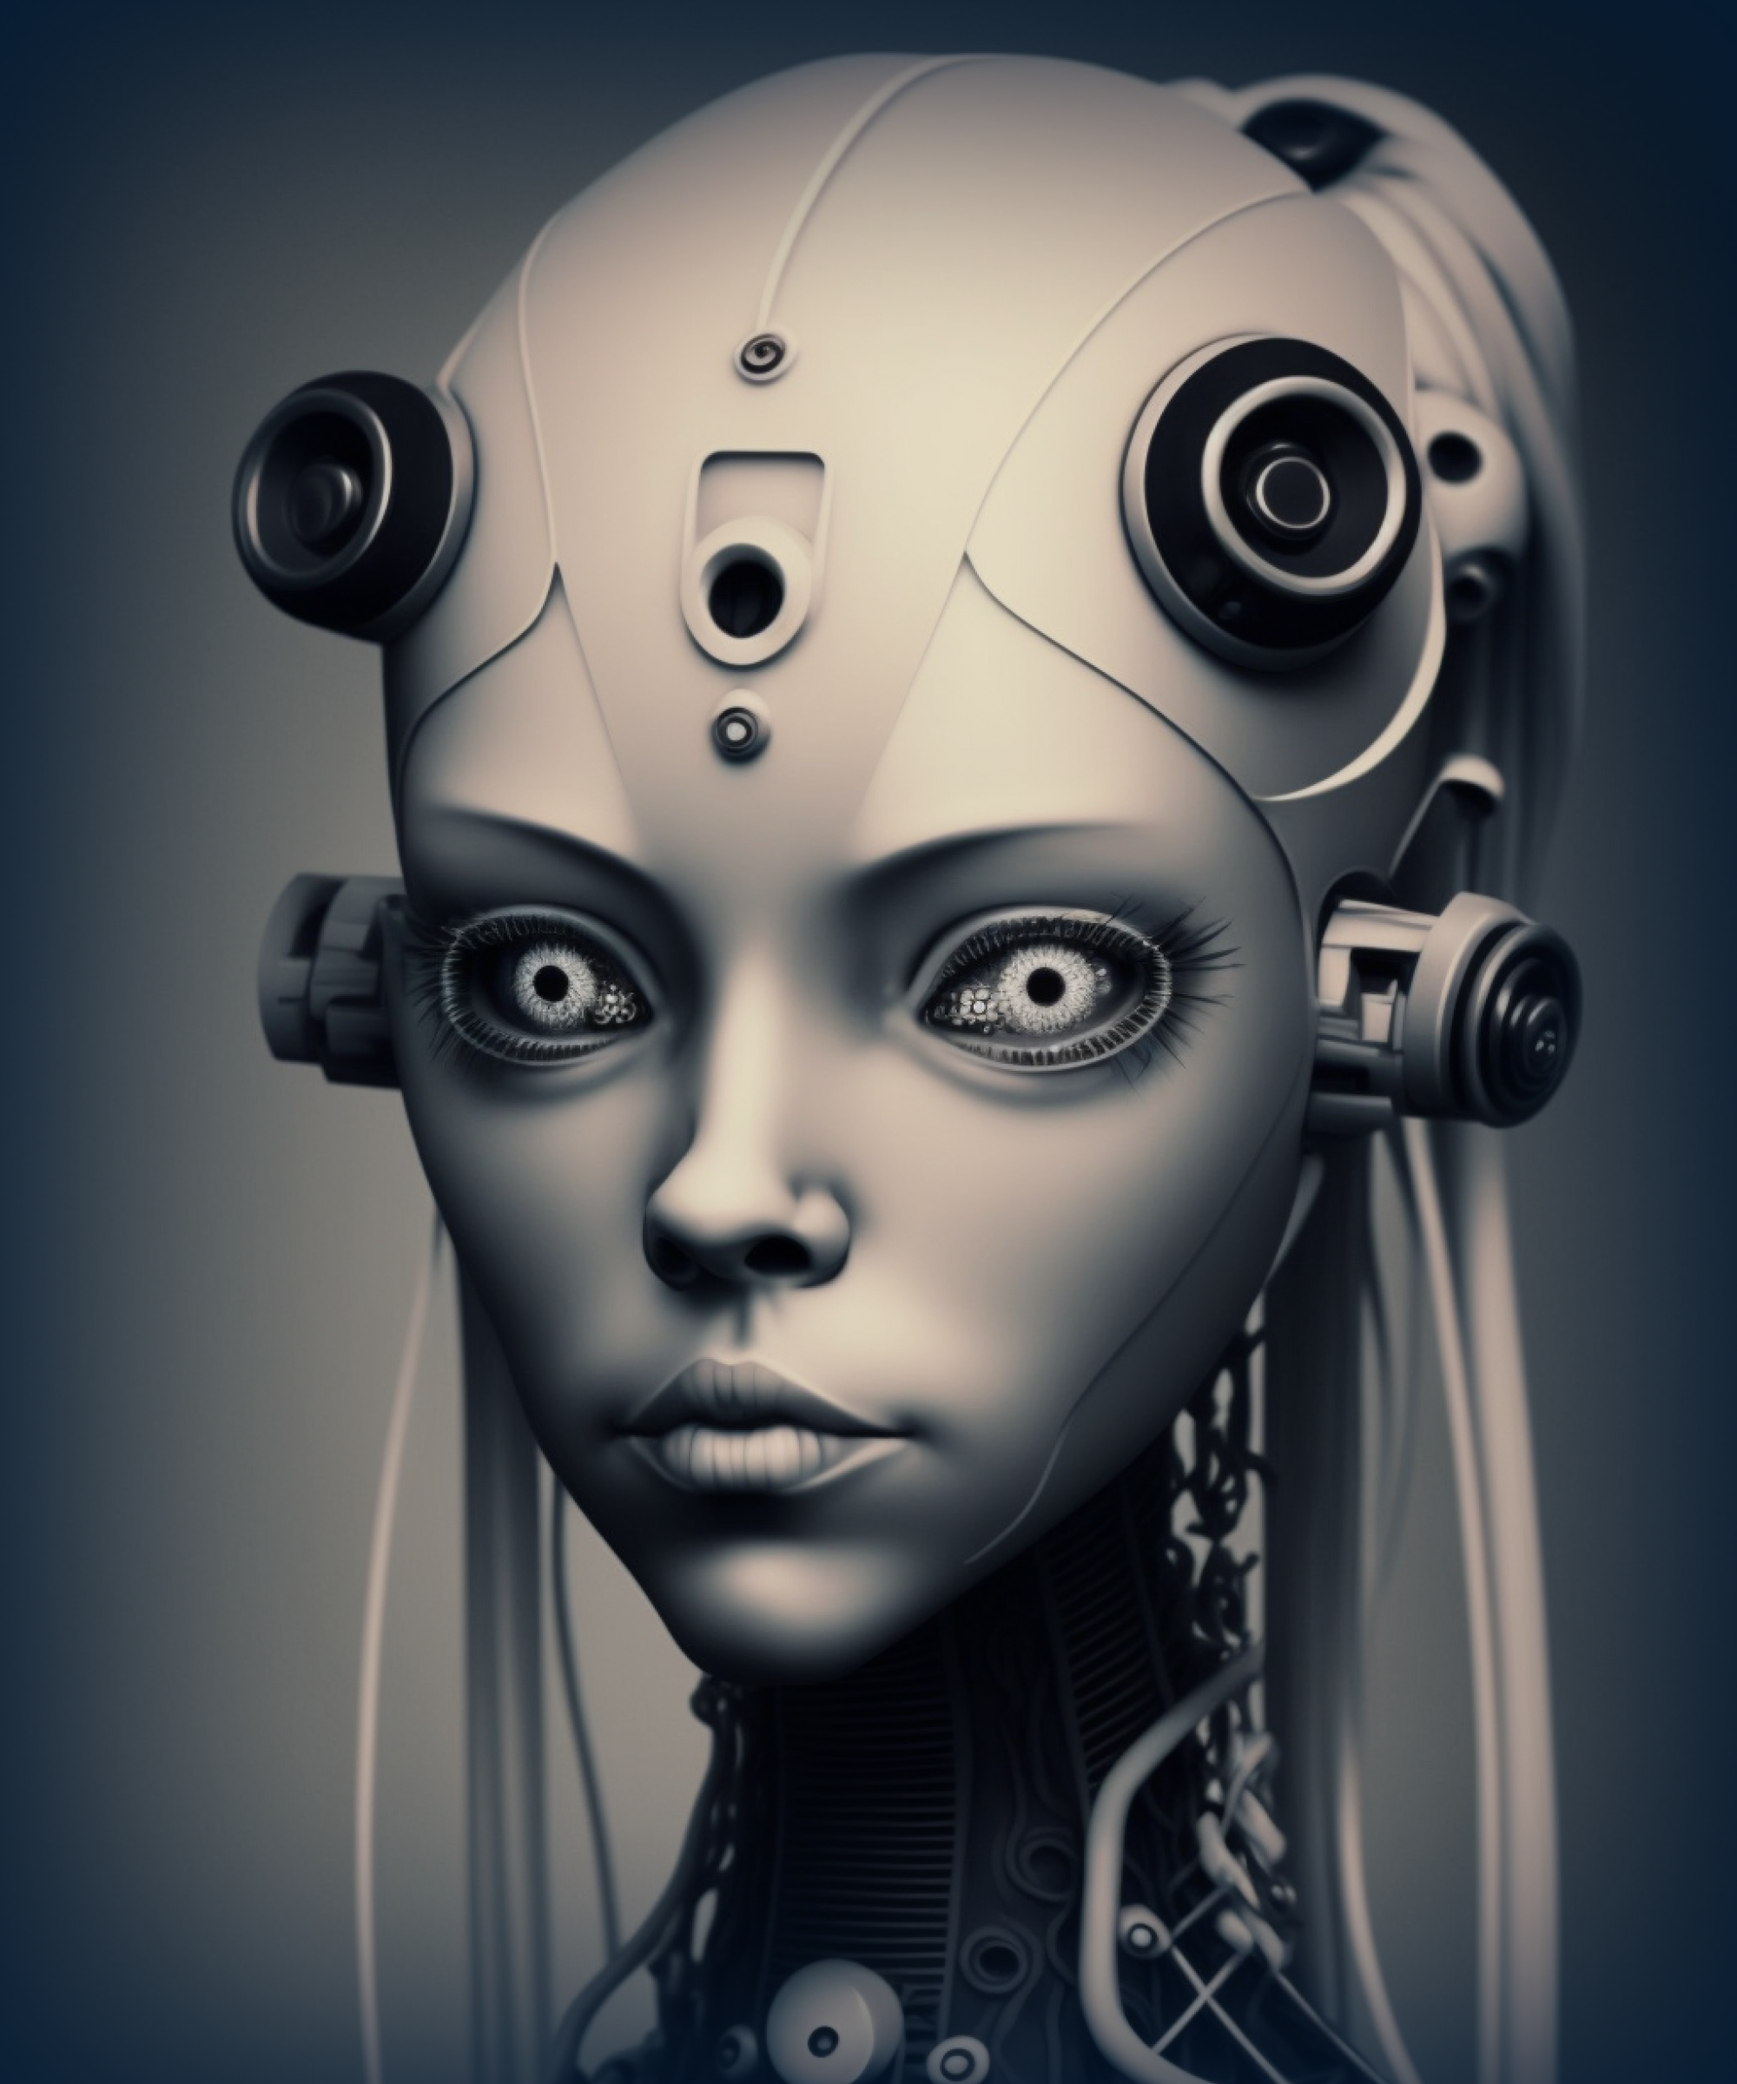
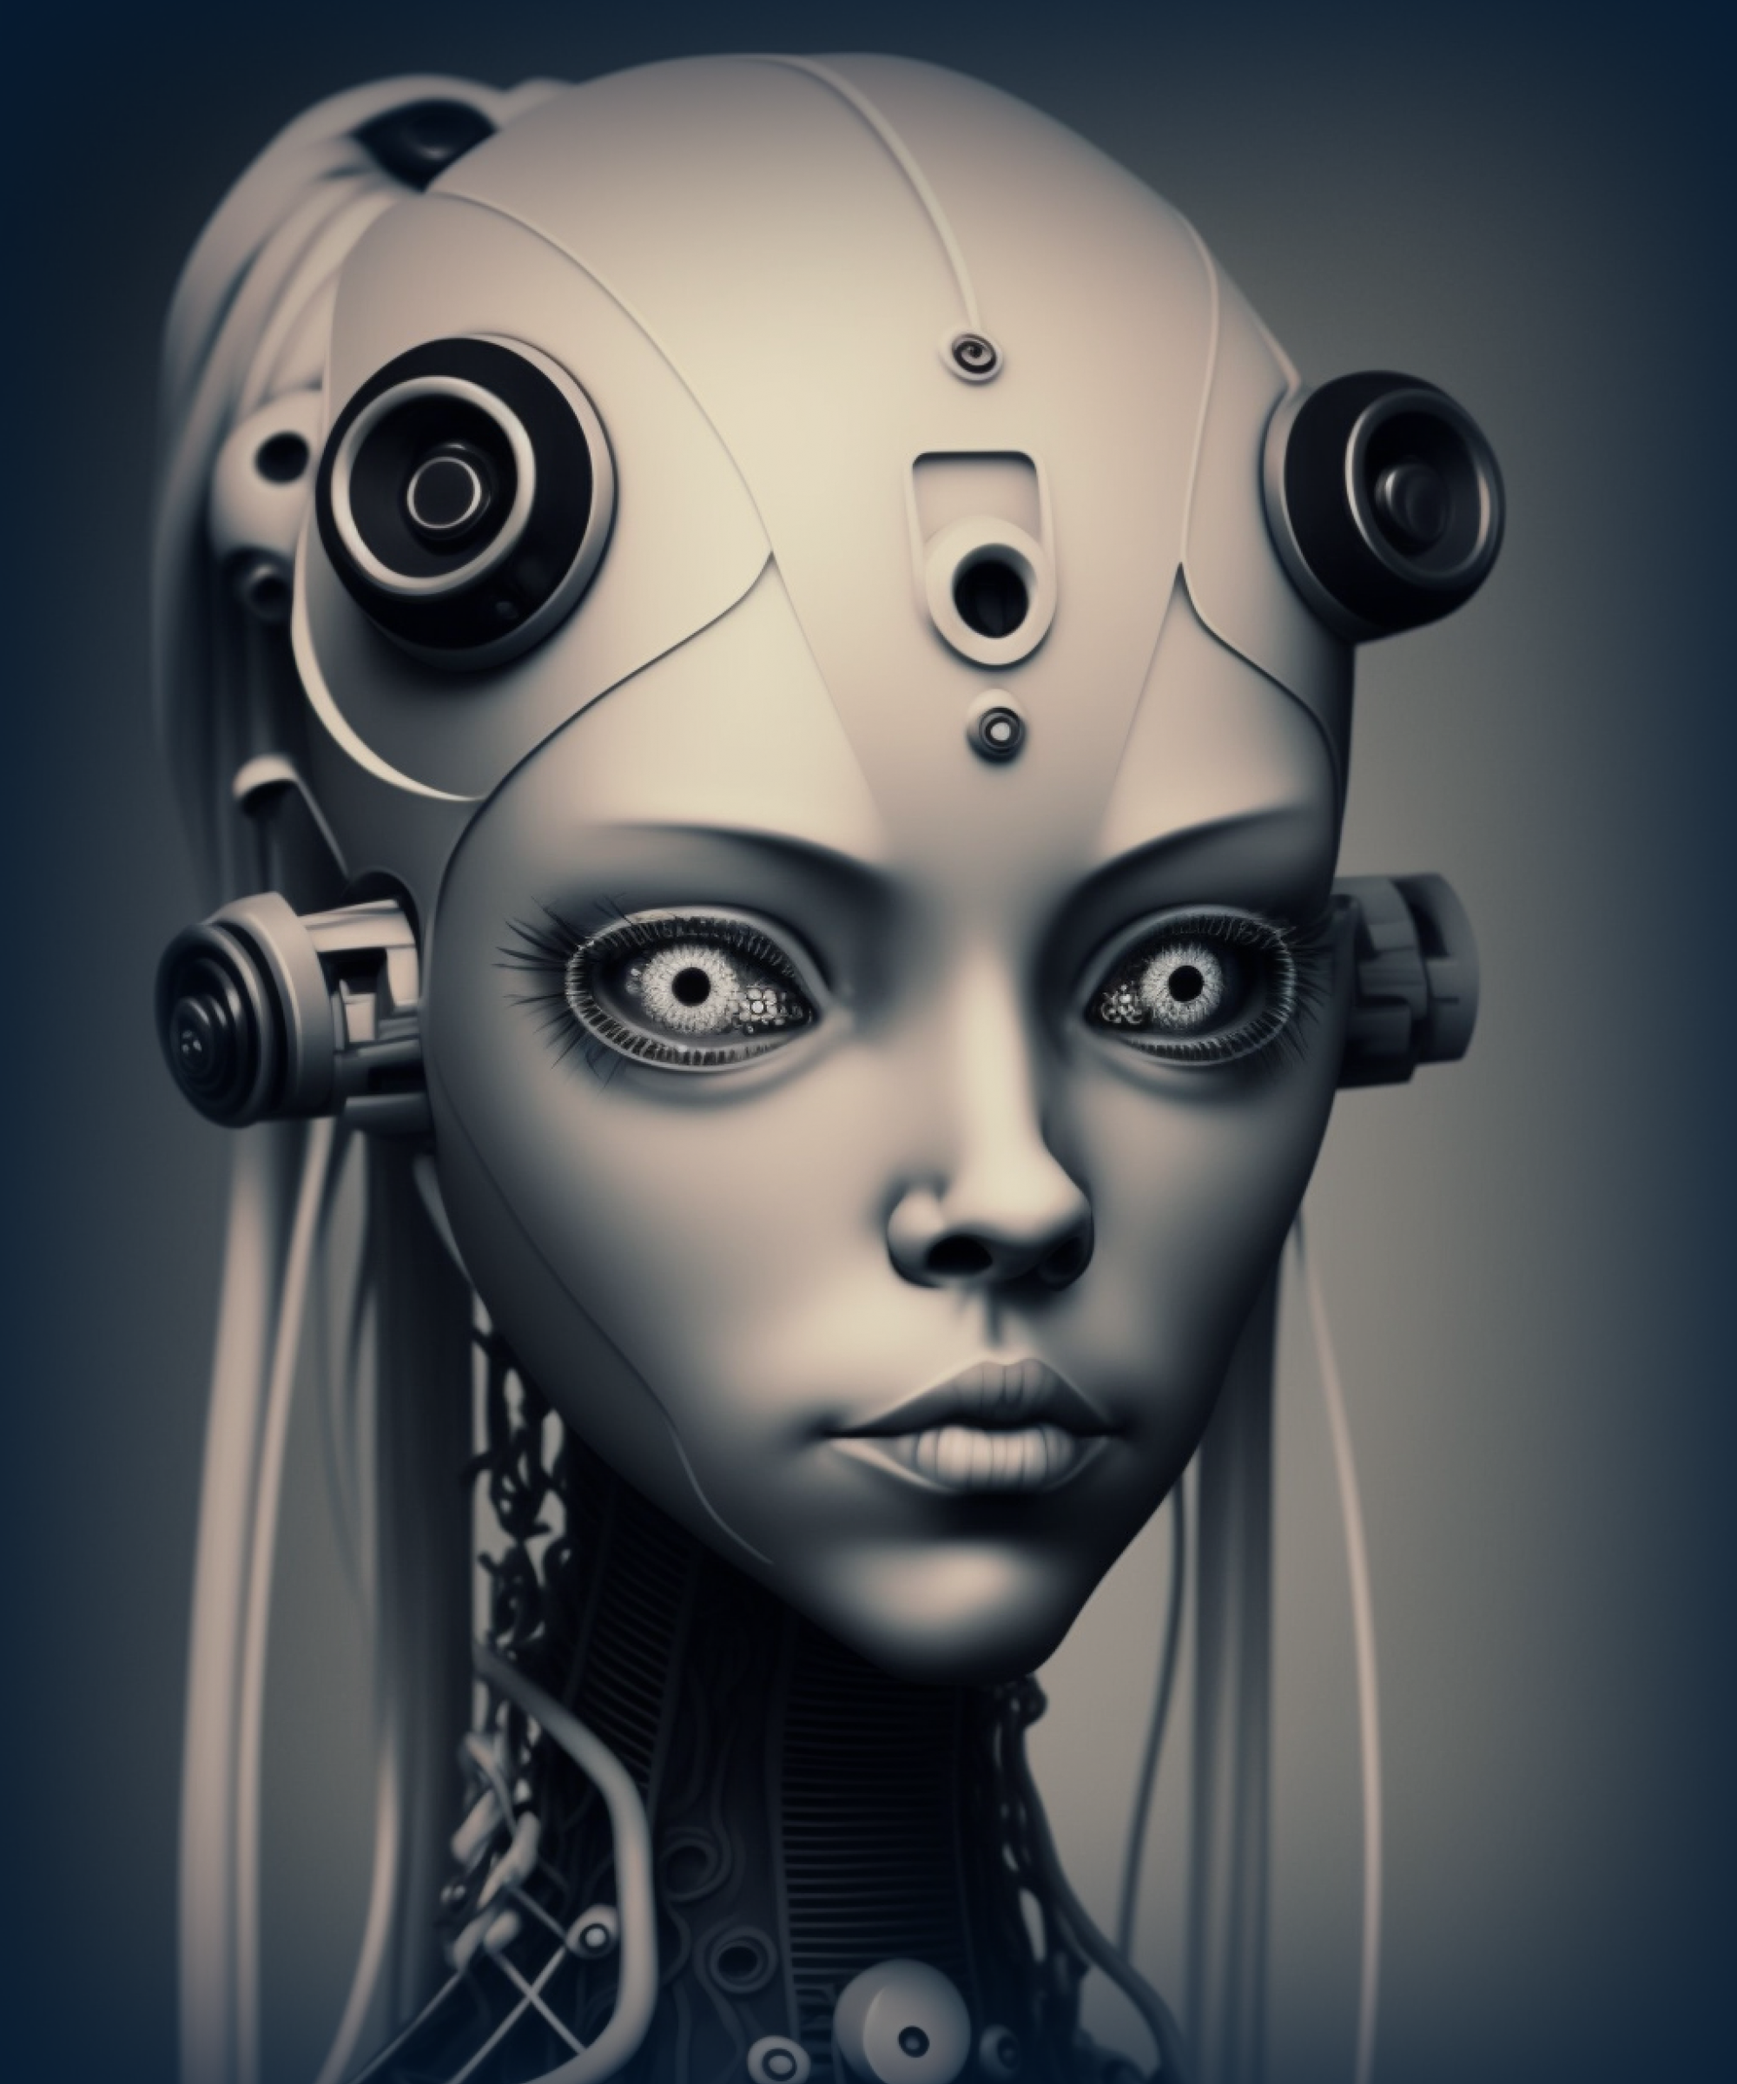
commit

diff --git a/src/containers/ethics/ethics.css b/src/containers/ethics/ethics.css
@@ -1,6 +1,6 @@
 .gpt__ethics {
 	display: flex;
-	flex-direction: row-reverse;
+	flex-direction: row;
 }
 
 .gpt__ethics-image {
@@ -9,7 +9,7 @@
 	justify-content: flex-start;
 	align-items: center;
 
-	margin-left: 2rem;
+	margin-right: 2rem;
 
 	border-radius: 1rem;
 	overflow: hidden;
